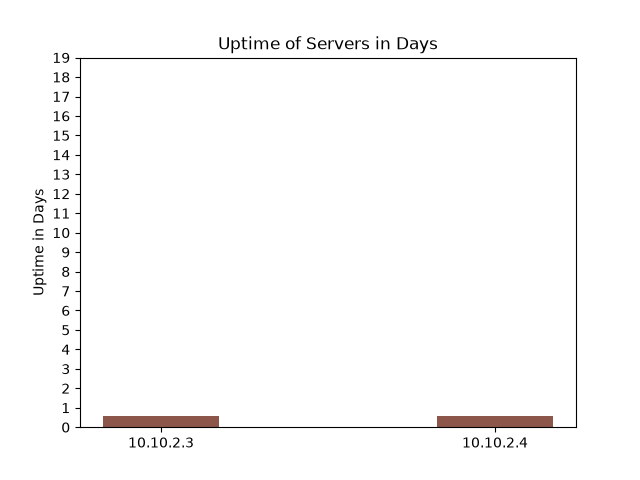
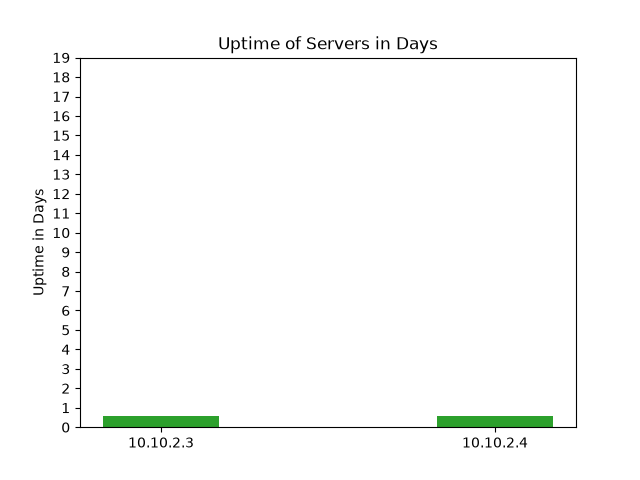
flask and other dark magic

Changed region(s): [[0.6875, 0.8438, 0.875, 0.9062], [0.1562, 0.8438, 0.3438, 0.9062]]

diff --git a/protected_api.py b/protected_api.py
@@ -1,0 +1,77 @@
+"""Classroom bearer authentication and authorization example."""
+import hmac
+import os
+from functools import wraps
+
+from flask import Flask, g, jsonify, request
+
+
+def create_app(reader_token, admin_token):
+    if not reader_token or not admin_token or reader_token == admin_token:
+        raise ValueError("Two different nonempty tokens are required")
+
+    app = Flask(__name__)
+    app.config["MAX_CONTENT_LENGTH"] = 1024
+    notes = []
+
+    def protected(*roles):
+        def decorate(view):
+            @wraps(view)
+            def wrapped(*args, **kwargs):
+                scheme, _, token = request.headers.get(
+                    "Authorization", ""
+                ).partition(" ")
+                role = None
+                if scheme.lower() == "bearer" and token:
+                    supplied = token.encode("utf-8")
+                    if hmac.compare_digest(supplied, admin_token.encode()):
+                        role = "admin"
+                    elif hmac.compare_digest(supplied, reader_token.encode()):
+                        role = "reader"
+                if role is None:
+                    response = jsonify(error="authentication required")
+                    response.status_code = 401
+                    response.headers["WWW-Authenticate"] = "Bearer"
+                    return response
+                if role not in roles:
+                    return jsonify(error="permission denied"), 403
+                g.role = role
+                return view(*args, **kwargs)
+            return wrapped
+        return decorate
+
+    @app.after_request
+    def response_headers(response):
+        response.headers["Cache-Control"] = "no-store"
+       # response.headers["X-Content-Type-Options"] = "nosniff"
+        return response
+
+    @app.get("/notes")
+    @protected("reader", "admin")
+    def list_notes():
+        return jsonify(notes=notes, role=g.role)
+
+    @app.post("/notes")
+    @protected("admin")
+    def add_note():
+        if not request.is_json:
+            return jsonify(error="application/json required"), 415
+        data = request.get_json(silent=True)
+        if not isinstance(data, dict):
+            return jsonify(error="JSON object required"), 400
+        title = data.get("title")
+        if not isinstance(title, str) or not 1 <= len(title.strip()) <= 80:
+            return jsonify(error="title must contain 1 to 80 characters"), 400
+        note = {"id": len(notes) + 1, "title": title.strip()}
+        notes.append(note)
+        return jsonify(note), 201
+
+    return app
+
+
+if __name__ == "__main__":
+    app = create_app(
+        os.environ.get("LAB_READER_TOKEN"),
+        os.environ.get("LAB_ADMIN_TOKEN"),
+    )
+    app.run(host="127.0.0.1", port=5001, debug=False)

diff --git a/check_protected_api.py b/check_protected_api.py
@@ -1,0 +1,17 @@
+from protected_api import create_app
+
+app = create_app("test-reader", "test-admin")
+reader = {"Authorization": "Bearer test-reader"}
+admin = {"Authorization": "Bearer test-admin"}
+with app.test_client() as client:
+    assert client.get("/notes").status_code == 401
+    assert client.post("/notes", headers=reader, json={"title": "Mars"}).status_code == 403
+    assert client.post("/notes", headers=admin, json={"title": ""}).status_code == 400
+    assert client.post("/notes", headers=admin, data="hello").status_code == 415
+    assert client.post("/notes", headers=admin, json={"title": "x" * 2000}).status_code == 413
+    assert client.get("/notes", headers=reader).json["notes"] == []
+    assert client.post("/notes", headers=admin, json={"title": "Mars"}).status_code == 201
+    result = client.get("/notes", headers=reader)
+    assert len(result.json["notes"]) == 1
+    assert result.headers["Cache-Control"] == "no-store"
+print("Authentication, authorization, validation, and state checks passed.")
